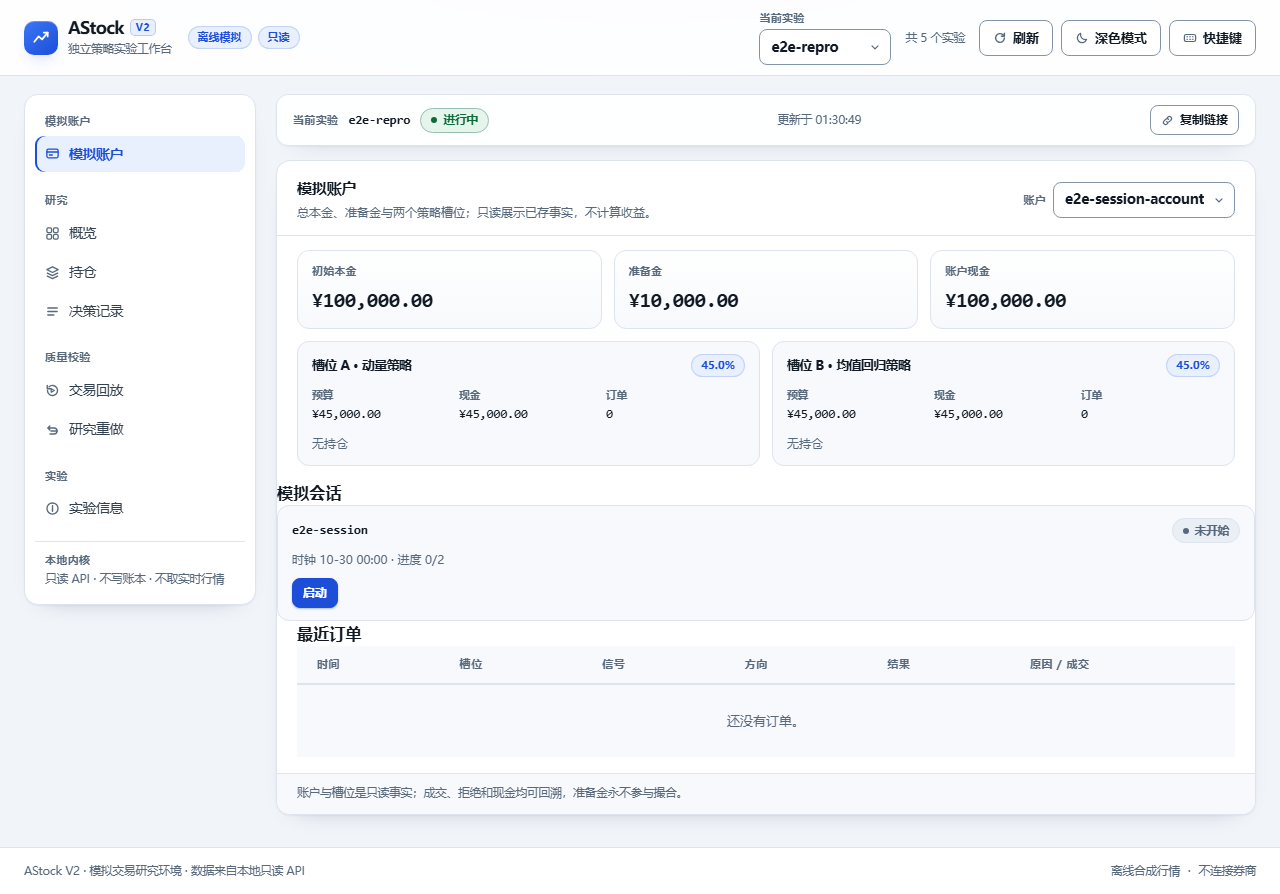
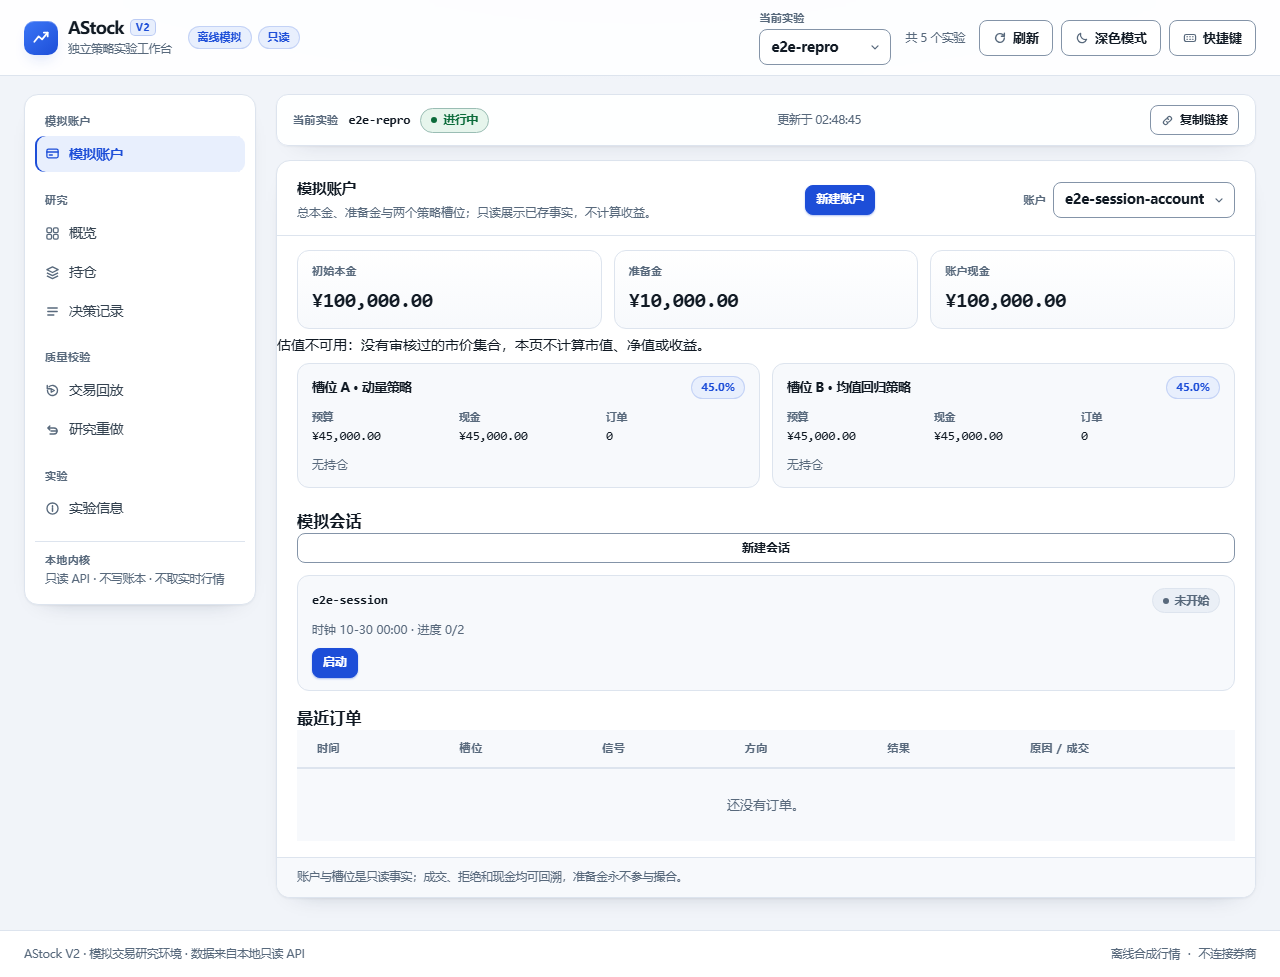
feat(v2): advance paper sessions by explicit trading day and declare valuation status
- store: advance_paper_session_to(day) only executes signals whose China day is
  on/before the requested day; days between decisions move nothing; an invalid
  day is rejected. No look-ahead.
- account view: explicit valuation {status: unavailable, reason:
  no_reviewed_price_set}; nothing is valued until ADR 006 defines a reviewed
  price set.
- ui: “推进到该日” control on running session cards; account panel states the
  valuation limitation instead of implying a market value.
- tests: rust 122 (+1 advance/valuation); browser 98 (+1 advance flow, valuation
  assertions on the account page).

diff --git a/v2/web/src/main.ts b/v2/web/src/main.ts
@@ -1032,6 +1032,7 @@ type PaperAccountSlotView = {
 type PaperAccountView = {
   account_id: string; initial_cash_cents: number; created_at: string;
   cash_cents: number; reserve_cents: number; slots: PaperAccountSlotView[];
+  valuation: { status: string; reason: string };
 };
 type PaperFill = {
   symbol: string; side: string; quantity: number; price_cents: number;
@@ -1148,6 +1149,11 @@ const renderAccount = (account: PaperAccountView, orders: PaperOrderRecord[]): v
   setText("account-initial", money(account.initial_cash_cents));
   setText("account-reserve", money(account.reserve_cents));
   setText("account-cash", money(account.cash_cents));
+  const valuation = testId<HTMLElement>("account-valuation");
+  toggle(valuation, true);
+  valuation.textContent = account.valuation.status === "unavailable"
+    ? "估值不可用：没有审核过的市价集合，本页不计算市值、净值或收益。"
+    : "估值可用：价格来源与版本见账户摘要。";
 
   const slots = byId("account-slots");
   slots.replaceChildren(...account.slots.map(accountSlotCard));
@@ -1252,6 +1258,30 @@ const sessionCard = (session: PaperSessionView): HTMLElement => {
     add("pause", "暂停");
     add("run", "运行到结束", true);
   }
+  if (session.status === "running") {
+    const advanceWrap = document.createElement("div");
+    advanceWrap.className = "session-advance";
+    const date = document.createElement("input");
+    date.type = "date";
+    date.dataset.testid = "session-advance-date";
+    date.setAttribute("aria-label", "推进到的交易日");
+    const advanceButton = document.createElement("button");
+    advanceButton.type = "button";
+    advanceButton.className = "btn btn-quiet btn-small";
+    advanceButton.dataset.testid = "session-advance";
+    advanceButton.textContent = "推进到该日";
+    advanceButton.addEventListener("click", () => {
+      if (!date.value) {
+        showAccountError("请先选择要推进到的交易日");
+        return;
+      }
+      advanceButton.disabled = true;
+      advanceButton.setAttribute("aria-busy", "true");
+      void sessionAdvance(session.session_id, date.value);
+    });
+    advanceWrap.append(date, advanceButton);
+    actions.appendChild(advanceWrap);
+  }
   if (session.status === "paused") {
     add("resume", "继续", true);
     add("run", "运行到结束");
@@ -1266,6 +1296,18 @@ const renderSessions = (sessions: PaperSessionView[]): void => {
   const container = byId("account-sessions");
   container.replaceChildren(...sessions.map(sessionCard));
   toggle(testId("account-sessions-empty"), sessions.length === 0);
+};
+
+const sessionAdvance = async (sessionId: string, day: string): Promise<void> => {
+  clearAccountError();
+  try {
+    await postJson(`/v2/paper-sessions/${encodeURIComponent(sessionId)}/advance`, { day });
+    announce(`会话 ${sessionId} 已推进到 ${day}`);
+    await loadAccount(currentAccountId);
+  } catch (error) {
+    showAccountError(`推进会话失败：${errorDetail(error)}`);
+    announce("推进会话失败");
+  }
 };
 
 const sessionAction = async (sessionId: string, action: string): Promise<void> => {

diff --git a/v2/web/e2e/session.spec.ts b/v2/web/e2e/session.spec.ts
@@ -113,6 +113,30 @@ test.describe("paper session control", () => {
     expect(overflow).toBeLessThanOrEqual(1);
   });
 
+  test("advance-to-day stops at the requested China trading day", async ({ page, request }) => {
+    await createAccount(request, "ui-acc-advance");
+    await createSession(request, "ui-acc-advance", "ui-session-advance");
+    await openAccount(page, "ui-acc-advance");
+    const card = page.getByTestId("session-card-ui-session-advance");
+    await card.getByRole("button", { name: "启动" }).click();
+    await expect(card).toContainText("运行中");
+
+    await card.getByTestId("session-advance-date").fill("2026-10-30");
+    await card.getByTestId("session-advance").click();
+    await expect(card).toContainText("1/2", { timeout: 15_000 });
+
+    // A day between decisions moves nothing.
+    await card.getByTestId("session-advance-date").fill("2026-11-01");
+    await card.getByTestId("session-advance").click();
+    await expect(card).toContainText("1/2");
+    await expect(card).toContainText("运行中");
+
+    await card.getByTestId("session-advance-date").fill("2026-11-02");
+    await card.getByTestId("session-advance").click();
+    await expect(card).toContainText("已完成", { timeout: 15_000 });
+    await expect(card).toContainText("2/2");
+  });
+
   test("the fixture session exists for its account", async ({ page }) => {
     await openAccount(page, "e2e-session-account");
     await expect(page.getByTestId("session-card-e2e-session")).toBeVisible();

diff --git a/v2/web/src/styles.css b/v2/web/src/styles.css
@@ -860,7 +860,9 @@ td:first-child { font-weight: 550; }
 .account-session-head { display: flex; align-items: center; justify-content: space-between; gap: 10px; }
 .account-session-head strong { font-family: var(--mono); font-size: 12.5px; }
 .account-session-meta { margin: 0; color: var(--muted); font-size: 12px; }
-.account-session-actions { display: flex; flex-wrap: wrap; gap: 8px; }
+.account-session-actions { display: flex; flex-wrap: wrap; gap: 8px; align-items: center; }
+.session-advance { display: flex; gap: 6px; align-items: center; }
+.session-advance input { min-width: 140px; }
 
 /* ---------- shortcut sheet ---------- */
 .sheet {

diff --git a/v2/web/index.html b/v2/web/index.html
@@ -289,6 +289,7 @@ python3 scripts/experiment_demo.py</code></pre>
                 <div class="acc-kpi"><h3>准备金</h3><p class="num" data-testid="account-reserve">—</p></div>
                 <div class="acc-kpi"><h3>账户现金</h3><p class="num" data-testid="account-cash">—</p></div>
               </div>
+              <p class="valuation-note" id="account-valuation" data-testid="account-valuation" hidden></p>
               <div class="account-slots" id="account-slots" data-testid="account-slots"></div>
               <div class="compare-section account-sessions-section">
                 <h3>模拟会话</h3>

diff --git a/v2/web/e2e/account.spec.ts b/v2/web/e2e/account.spec.ts
@@ -32,6 +32,10 @@ test.describe("paper account console", () => {
     await expect(slotB).toContainText("槽位 B · 均值回归策略");
     await expect(slotB).toContainText("无持仓");
 
+    await expect(page.getByTestId("account-valuation")).toBeVisible();
+    await expect(page.getByTestId("account-valuation")).toContainText("估值不可用");
+    await expect(page.getByTestId("account-valuation")).toContainText("不计算市值");
+
     const orders = page.getByTestId("account-orders").locator("tr");
     await expect(orders).toHaveCount(1);
     await expect(orders.first()).toContainText("A");

diff --git a/v2/src/store/mod.rs b/v2/src/store/mod.rs
@@ -107,6 +107,8 @@ pub struct PaperAccountView {
     pub cash_cents: i64,
     pub reserve_cents: i64,
     pub slots: Vec<PaperSlotView>,
+    /// No reviewed price set exists yet, so no market value or return is computed.
+    pub valuation: PaperValuation,
 }
 
 /// Summary returned by a batch run.
@@ -116,6 +118,13 @@ pub struct PaperSessionRun {
     pub steps: usize,
     pub filled: usize,
     pub rejected: usize,
+}
+
+/// Valuation availability for an account. Always explicit, never inferred.
+#[derive(Clone, Debug, PartialEq, Eq, Serialize, Deserialize)]
+pub struct PaperValuation {
+    pub status: String,
+    pub reason: String,
 }
 
 /// Status snapshot of one deterministic paper session.
@@ -954,6 +963,10 @@ impl Store {
             cash_cents,
             reserve_cents: split.reserve_cents,
             slots,
+            valuation: PaperValuation {
+                status: "unavailable".into(),
+                reason: "no_reviewed_price_set".into(),
+            },
         })
     }
 
@@ -1284,6 +1297,62 @@ impl Store {
 // ---------------------------------------------------------------------------
 
 impl Store {
+    /// Advance the clock only through signals whose China day is on/before `day`.
+    /// Future signals stay untouched: no look-ahead is ever executed.
+    pub fn advance_paper_session_to(
+        &mut self,
+        session_id: &str,
+        day: &str,
+    ) -> StoreResult<PaperSessionRun> {
+        let target = chrono::NaiveDate::parse_from_str(day, "%Y-%m-%d")
+            .map_err(|_| StoreError::Rules(RuleError("invalid_advance_day".into())))?;
+        if target.to_string() != day {
+            return Err(StoreError::Rules(RuleError("invalid_advance_day".into())));
+        }
+        let mut steps = 0usize;
+        let mut filled = 0usize;
+        let mut rejected = 0usize;
+        loop {
+            let view = self.paper_session(session_id)?;
+            if view.status != "running" || view.cursor >= view.total {
+                break;
+            }
+            let spec_json: String = self.conn.query_row(
+                "SELECT spec_json FROM v2_paper_sessions WHERE session_id=?",
+                [session_id],
+                |row| row.get(0),
+            )?;
+            let spec: crate::domain::PaperSessionSpec = serde_json::from_str(&spec_json)?;
+            let next = &spec.signals[view.cursor];
+            let at = chrono::DateTime::parse_from_rfc3339(&next.decision_at)
+                .map_err(|_| StoreError::Integrity("stored_decision_time_invalid".into()))?;
+            let china = at.with_timezone(&chrono::FixedOffset::east_opt(8 * 3600).expect("offset"));
+            if china.date_naive() > target {
+                break;
+            }
+            let step = self.step_paper_session(session_id)?;
+            match step.order {
+                Some(order) => {
+                    steps += 1;
+                    match order.outcome.status {
+                        crate::domain::DecisionStatus::Filled => filled += 1,
+                        crate::domain::DecisionStatus::Rejected => rejected += 1,
+                    }
+                }
+                None => break,
+            }
+            if steps > view.total {
+                break;
+            }
+        }
+        Ok(PaperSessionRun {
+            session: self.paper_session(session_id)?,
+            steps,
+            filled,
+            rejected,
+        })
+    }
+
     pub fn run_paper_session(&mut self, session_id: &str) -> StoreResult<PaperSessionRun> {
         let mut steps = 0usize;
         let mut filled = 0usize;

diff --git a/v2/src/store/tests.rs b/v2/src/store/tests.rs
@@ -2562,3 +2562,53 @@ fn paper_session_can_be_imported_from_an_experiment() {
     assert_eq!(run.session.status, "completed");
     assert!(run.filled + run.rejected >= 1);
 }
+
+#[test]
+fn paper_session_advances_only_through_reached_days() {
+    let mut db = test_store(INITIAL_CASH_CENTS).unwrap();
+    db.create_paper_account(paper_spec("advance-acct", 10_000_000)).unwrap();
+    let output = frozen_momentum_output();
+    for signal in &output.signals {
+        ingest_signal_evidence(&mut db, signal);
+    }
+    db.create_paper_session(session_spec(
+        "advance-acct",
+        "advance-session",
+        vec![
+            session_signal(PaperSlotId::A, &output.signals[0]),
+            session_signal(PaperSlotId::A, &output.signals[1]),
+        ],
+    ))
+    .unwrap();
+    db.paper_session_action("advance-session", "start").unwrap();
+
+    // Nothing is scheduled before the first decision day.
+    let early = db.advance_paper_session_to("advance-session", "2026-10-29").unwrap();
+    assert_eq!(early.steps, 0);
+    assert_eq!(early.session.cursor, 0);
+
+    let first = db.advance_paper_session_to("advance-session", "2026-10-30").unwrap();
+    assert_eq!(first.steps, 1);
+    assert_eq!(first.session.cursor, 1);
+    assert_eq!(first.session.clock_at, output.signals[0].decision_at);
+
+    // A day between decisions moves nothing.
+    let gap = db.advance_paper_session_to("advance-session", "2026-11-01").unwrap();
+    assert_eq!(gap.steps, 0);
+    assert_eq!(gap.session.cursor, 1);
+
+    let last = db.advance_paper_session_to("advance-session", "2026-11-02").unwrap();
+    assert_eq!(last.steps, 1);
+    assert_eq!(last.session.status, "completed");
+    assert_eq!(last.session.cursor, 2);
+
+    assert!(matches!(
+        db.advance_paper_session_to("advance-session", "2026-13-01"),
+        Err(StoreError::Rules(RuleError(ref code))) if code == "invalid_advance_day"
+    ));
+
+    // Accounts state their valuation availability instead of implying a value.
+    let view = db.paper_account("advance-acct").unwrap();
+    assert_eq!(view.valuation.status, "unavailable");
+    assert_eq!(view.valuation.reason, "no_reviewed_price_set");
+}

diff --git a/v2/src/main.rs b/v2/src/main.rs
@@ -131,6 +131,11 @@ async fn paper_orders(
 }
 
 #[derive(Deserialize)]
+struct AdvanceBody {
+    day: String,
+}
+
+#[derive(Deserialize)]
 struct SessionFromExperiment {
     session_id: String,
     account_id: String,
@@ -183,6 +188,15 @@ async fn paper_sessions(
 async fn paper_session(State(state): State<Shared>, Path(id): Path<String>) -> ApiResult {
     let db = state.lock().await;
     response(db.paper_session(&id).map_err(api_error)?)
+}
+
+async fn paper_session_advance(
+    State(state): State<Shared>,
+    Path(session_id): Path<String>,
+    Json(body): Json<AdvanceBody>,
+) -> ApiResult {
+    let mut db = state.lock().await;
+    response(db.advance_paper_session_to(&session_id, &body.day).map_err(api_error)?)
 }
 
 async fn paper_session_action(
@@ -255,6 +269,10 @@ async fn main() -> Result<(), Box<dyn std::error::Error>> {
             post(create_session_from_experiment),
         )
         .route("/v2/paper-sessions/{session_id}", get(paper_session))
+        .route(
+            "/v2/paper-sessions/{session_id}/advance",
+            post(paper_session_advance),
+        )
         .route(
             "/v2/paper-sessions/{session_id}/{action}",
             post(paper_session_action),

diff --git a/CHANGELOG.md b/CHANGELOG.md
@@ -4,6 +4,7 @@
 
 ## 当前分支
 
+- V2 按日推进与估值占位（ADR 005）：新增 `POST /v2/paper-sessions/{id}/advance {day}`，只执行中国日 ≤ day 的信号，间隔日不前移，非法日期拒绝；`PaperAccountView` 增加 `valuation {status:"unavailable", reason:"no_reviewed_price_set"}`，账户页显示估值不可用提示，明确不计算市值/净值/收益；运行中的会话卡新增“推进到该日”控件。测试：Rust 122 passed（按日推进 + 估值占位）；浏览器 98 passed（新增推进用例与估值断言）。
 - V2 从实验导入模拟会话（ADR 005）：新增 `POST /v2/paper-sessions/from-experiment`（会话 id + 账户 + 槽位 + 可选起始时刻），把实验已存决策按 id 顺序冻结为会话信号；校验槽位策略/数据包/执行规则一致，缺省起点取首条决策的中国日 00:00，空实验拒绝；控制台新增“新建会话”表单（槽位过滤可用实验、无匹配时禁用并提示）。测试：Rust 121 passed（导入、策略不匹配、空实验、缺失实验、显式起点）；浏览器新增 4 项（导入并运行、无匹配实验、缺会话 id 零请求、390px），合计 97 passed；会话控制测试改用每用例独立账户避免槽位顺序干扰。
 - V2 账户创建表单（ADR 005）：新增 `PaperAccountRequest`（客户端只提交已审核策略 id，服务端解析 artifact）与 `GET /v2/strategies` 策略目录（策略、默认数据包、执行规则、准备金比例）；账户控制台新增“新建账户”表单（账户标识、初始资金、A/B 策略选择、固定 45/45/10），重复 id、非法本金、同策略占用两个槽位都会被明确拒绝。测试：Rust 120 passed（新增按 id 创建 + 未知策略拒绝）；浏览器新增 6 项（创建、重复、同策略、非法本金、390px、表单 axe），合计 92 passed；冒烟改走 id 创建并通过。
 - V2 会话批量运行与控制台（ADR 005 第二阶段）：新增 `POST /v2/paper-sessions/{id}/run`（批量推进到完成/暂停/停止，返回步数与成交/拒绝计数）与 `GET /v2/paper-sessions?account_id=`（只读列表）；账户控制台新增“模拟会话”区块：状态、显式时钟、进度与按状态可用的启动/暂停/继续/运行到结束/停止操作，操作后重新读取账户，保证订单与现金不漂移。浏览器测试新增 5 项（完整控制流、暂停不成交、只写会话端点、390px、夹具会话），合计 86 passed；截图 `after-account-sessions.png`。

diff --git a/v2/docs/UI_NOTES.md b/v2/docs/UI_NOTES.md
@@ -104,6 +104,11 @@ form, no valuation.
   chosen from `GET /v2/strategies`, fixed 45/45/10). The browser sends only
   reviewed strategy ids; the server resolves artifacts. Duplicate ids, invalid
   capital and identical strategies are refused with an explicit message.
+- Valuation: the account panel always states that valuation is unavailable
+  (`No reviewed price set`), so the page never implies a market value or return.
+- Advancing: a running session offers “推进到该日” with an explicit trading day;
+  only signals on or before that China day are executed, intermediate days move
+  nothing.
 - Session creation: “新建会话” picks a slot (A/B) and a signal source experiment
   filtered by that slot's reviewed strategy; the session id defaults from the
   experiment but stays editable. A slot without a matching experiment shows a
